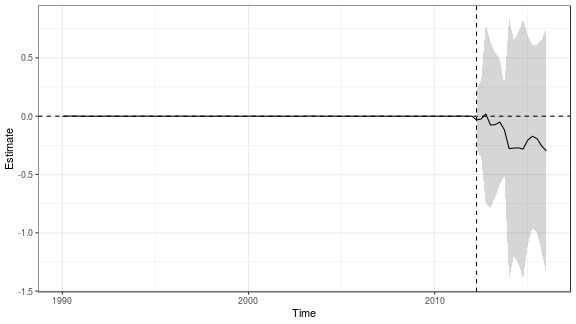
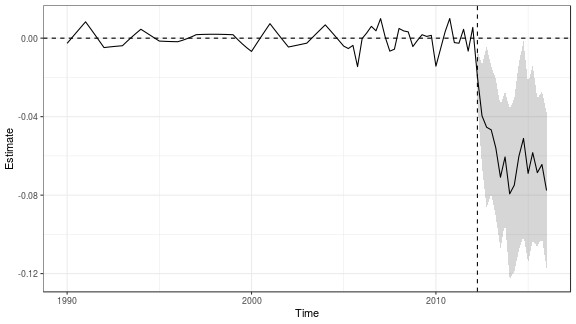
Restricted lambda_min_ratio for covariate ascm in single synth vignette

diff --git a/vignettes/singlesynth-vignette.md b/vignettes/singlesynth-vignette.md
@@ -196,7 +196,7 @@ Now we can additionally fit ridge ASCM on the residuals, look at the summary, an
 ```r
 covsyn_aug <- augsynth(lngdpcapita ~ treated | lngdpcapita + log(revstatecapita) + log(revlocalcapita) + log(avgwklywagecapita)+ estabscapita + emplvlcapita,
                    fips, year_qtr, kansas,
-                   progfunc="Ridge", scm=T)
+                   progfunc="Ridge", scm=T, lambda_min_ratio=1e-5)
 ```
 
 
@@ -205,31 +205,32 @@ summary(covsyn_aug)
 #> 
 #> Call:
 #> single_augsynth(form = form, unit = !!enquo(unit), time = !!enquo(time), 
-#>     t_int = t_int, data = data, progfunc = "Ridge", scm = ..2)
+#>     t_int = t_int, data = data, progfunc = "Ridge", scm = ..2, 
+#>     lambda_min_ratio = 1e-05)
 #> 
-#> Average ATT Estimate (Std. Error): -0.161  (0.325)
-#> L2 Imbalance: 0.004
-#> Scaled L2 Imbalance: 0.011
-#> Percent improvement from uniform weights: 98.9%
-#> Avg Estimated Bias: 0.087
+#> Average ATT Estimate (Std. Error): -0.059  (0.016)
+#> L2 Imbalance: 0.041
+#> Scaled L2 Imbalance: 0.102
+#> Percent improvement from uniform weights: 89.8%
+#> Avg Estimated Bias: -0.015
 #> 
-#>     Time    Estimate Std.Error
-#>  2012.25 -0.03214328 0.1310501
-#>  2012.50 -0.02421939 0.1634960
-#>  2012.75  0.01892306 0.3852166
-#>  2013.00 -0.07550951 0.3548441
-#>  2013.25 -0.07349945 0.3113322
-#>  2013.50 -0.04971947 0.2678973
-#>  2013.75 -0.11817176 0.1913746
-#>  2014.00 -0.27776807 0.5577621
-#>  2014.25 -0.27398661 0.4631122
-#>  2014.50 -0.27158120 0.4948095
-#>  2014.75 -0.28223332 0.5564048
-#>  2015.00 -0.20567019 0.4494654
-#>  2015.25 -0.17205419 0.3922254
-#>  2015.50 -0.19262658 0.4024699
-#>  2015.75 -0.25507290 0.4540250
-#>  2016.00 -0.29837902 0.5259730
+#>     Time    Estimate   Std.Error
+#>  2012.25 -0.01958348 0.006713539
+#>  2012.50 -0.03959612 0.012905898
+#>  2012.75 -0.04541429 0.020531362
+#>  2013.00 -0.04674158 0.016220482
+#>  2013.25 -0.05601212 0.017558693
+#>  2013.50 -0.07088784 0.018233158
+#>  2013.75 -0.06054975 0.016696615
+#>  2014.00 -0.07935354 0.021656417
+#>  2014.25 -0.07492268 0.022045868
+#>  2014.50 -0.06022028 0.023887764
+#>  2014.75 -0.05110227 0.024712744
+#>  2015.00 -0.06892611 0.022686422
+#>  2015.25 -0.05835650 0.022404527
+#>  2015.50 -0.06855496 0.018867981
+#>  2015.75 -0.06438172 0.018669299
+#>  2016.00 -0.07763690 0.019838542
 ```
 
 
